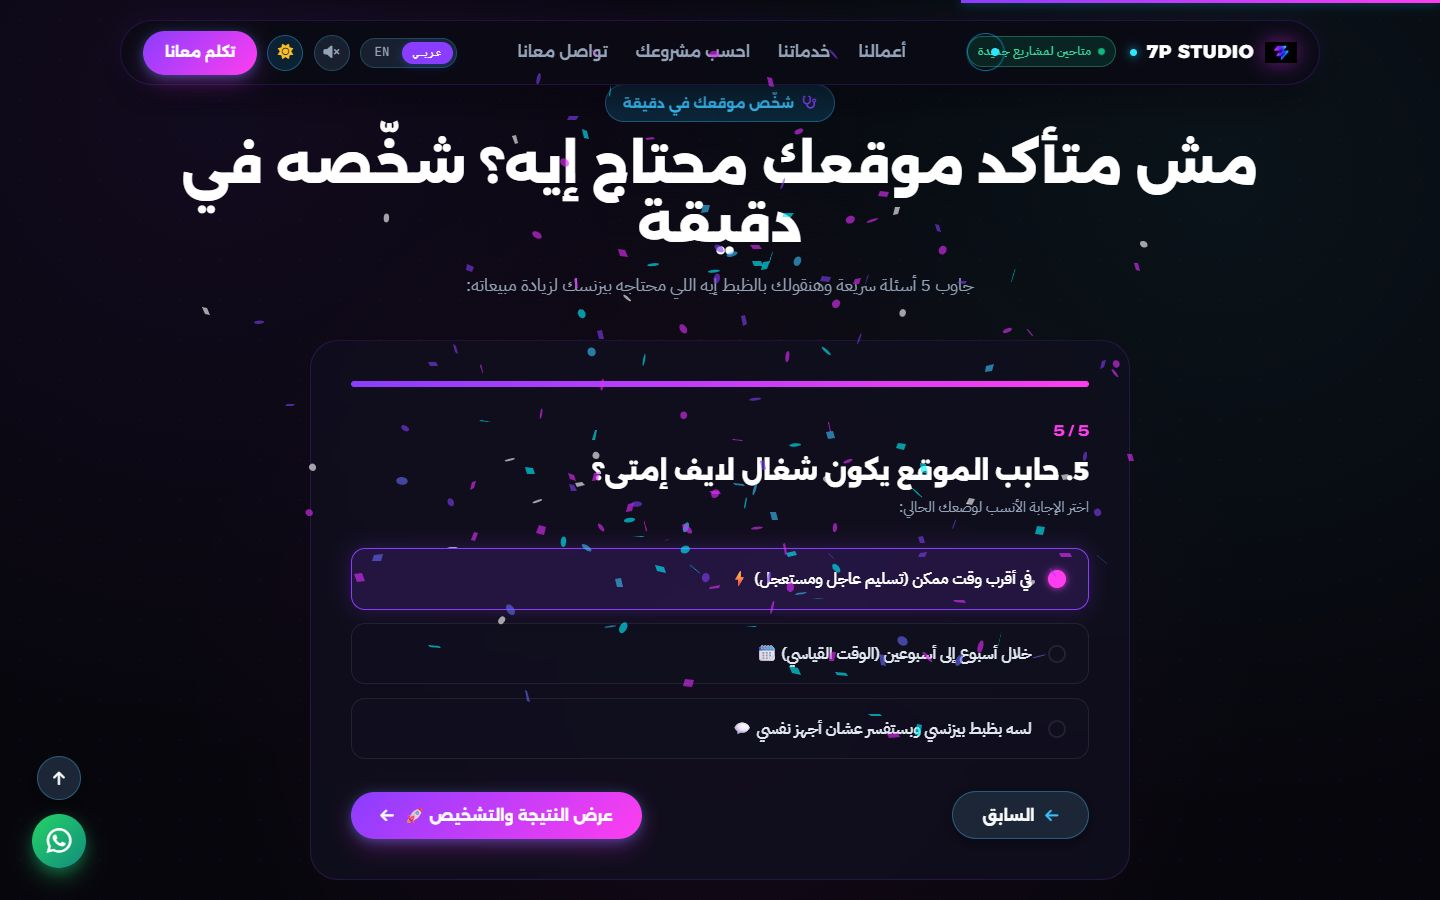
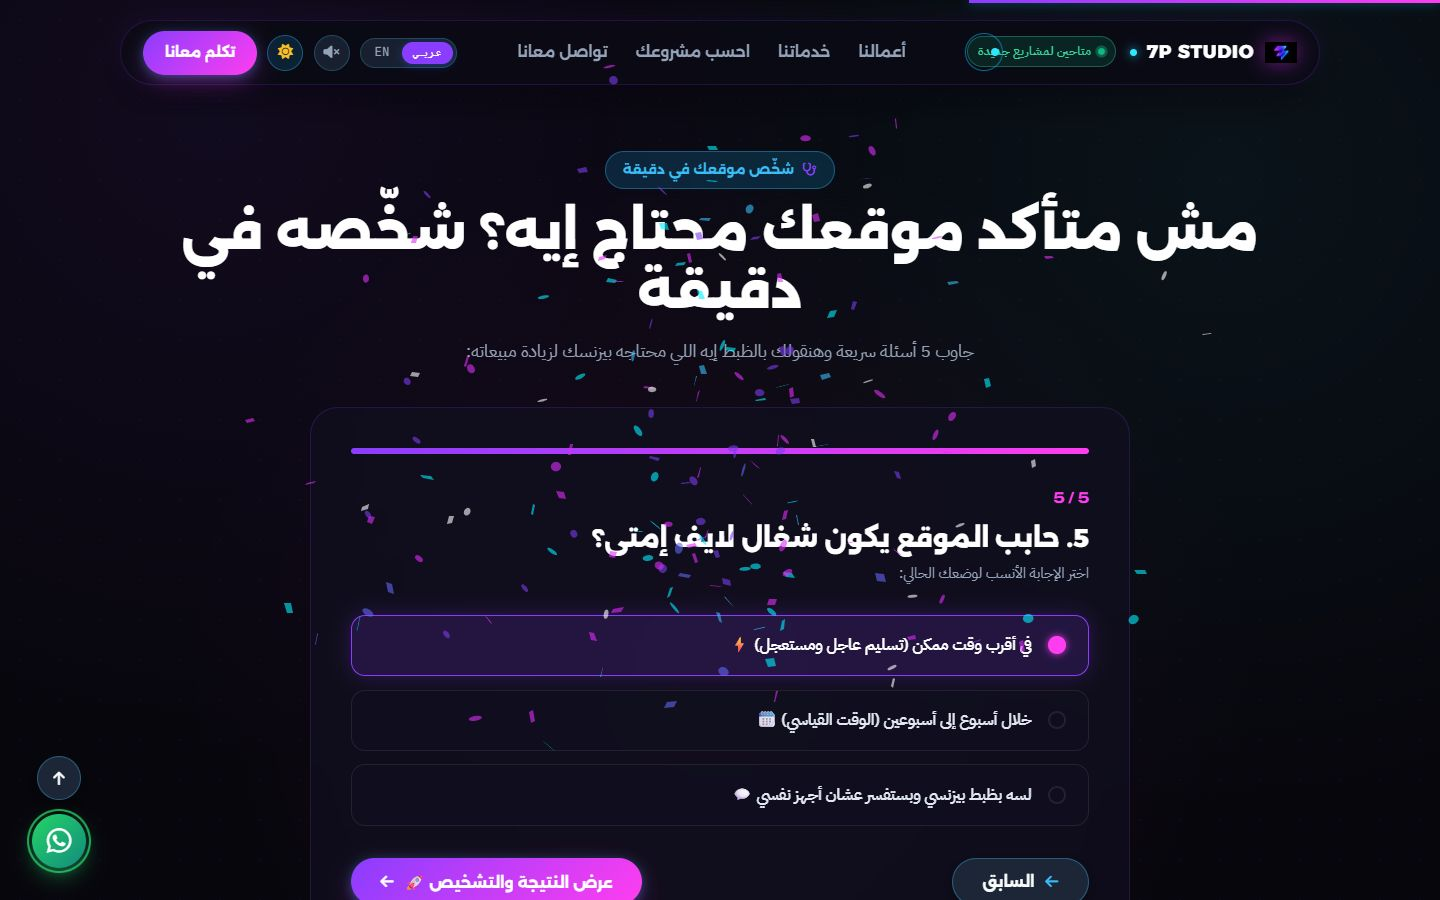
feat: add XO PS Lounge demo project with Eng. Yassin partnership badge and preview

diff --git a/index.html b/index.html
@@ -267,7 +267,7 @@
               <div class="hero-proof-card">
                 <div class="hero-proof-val">
                   <span class="live-dot"></span>
-                  <span data-i18n="heroProofProjectsVal">6 مشاريع</span>
+                  <span data-i18n="heroProofProjectsVal">7 مشاريع</span>
                 </div>
                 <span class="hero-proof-label" data-i18n="heroProofProjectsLabel">شغالة لايف دلوقتي</span>
               </div>
@@ -275,9 +275,9 @@
               <div class="hero-proof-card">
                 <div class="hero-proof-val" style="color: var(--accent-magenta);">
                   <i class="fa-solid fa-layer-group" style="font-size: 0.85rem;"></i>
-                  <span data-i18n="heroProofIndustriesVal">5 مجالات</span>
+                  <span data-i18n="heroProofIndustriesVal">6 مجالات</span>
                 </div>
-                <span class="hero-proof-label" data-i18n="heroProofIndustriesLabel">متاجر، مطاعم، أزياء، 3D</span>
+                <span class="hero-proof-label" data-i18n="heroProofIndustriesLabel">متاجر، مطاعم، مساحات، جيمينج، 3D</span>
               </div>
 
               <div class="hero-proof-card">
@@ -762,7 +762,7 @@
             <!-- Left: Real Live Sites Check -->
             <div class="trust-live-list">
               <h4 style="font-size: 1.1rem; font-weight: 700; margin-bottom: 0.5rem;" data-i18n="trustLiveHeader">
-                6 نماذج ومشاريع لايف (مشاريع حقيقية + نماذج تجريبية):
+                7 نماذج ومشاريع لايف (مشاريع حقيقية + نماذج تجريبية):
               </h4>
 
               <a href="https://aya-accessories.vercel.app/" target="_blank" rel="noopener noreferrer" class="trust-live-item">
@@ -826,6 +826,17 @@
                   <div>
                     <div class="trust-live-title">متجر رَوْنَـق للعطور الفاخرة 3D (Rawnaq 3D) <span class="tab-badge-demo" style="margin-inline-start: 6px;">تجريبي</span></div>
                     <div class="trust-live-url">demo-perfume-sigma.vercel.app · تجريبي</div>
+                  </div>
+                </div>
+                <i class="fa-solid fa-arrow-up-right-from-square" style="color: var(--text-dim); font-size: 0.85rem;"></i>
+              </a>
+
+              <a href="https://demoplaystaion-plum.vercel.app/" target="_blank" rel="noopener noreferrer" class="trust-live-item">
+                <div class="trust-live-info">
+                  <span class="trust-live-dot" style="background: #C69255; box-shadow: 0 0 10px #C69255;"></span>
+                  <div>
+                    <div class="trust-live-title">لاونج إكس أو بلايستيشن (XO PS Lounge) <span class="tab-badge-demo" style="margin-inline-start: 6px;">تجريبي</span> <span style="font-size: 0.75rem; color: #E0A96D; margin-inline-start: 6px; font-weight: 600;">🤝 بالشراكة مع بشمهندس ياسين</span></div>
+                    <div class="trust-live-url">demoplaystaion-plum.vercel.app · تجريبي (بالشراكة مع بشمهندس ياسين)</div>
                   </div>
                 </div>
                 <i class="fa-solid fa-arrow-up-right-from-square" style="color: var(--text-dim); font-size: 0.85rem;"></i>

diff --git a/src/motion/projectShowcase.js b/src/motion/projectShowcase.js
@@ -85,12 +85,18 @@ function renderShowcaseStructure(container) {
         <!-- Right / End: Project Info & Features Panel -->
         <div class="showcase-info-panel chamfer-card" id="showcase-info-panel">
           <div class="panel-header">
-            <div class="project-category-pill" id="project-category-pill" style="color: ${currentProject.accentColor}; border-color: ${currentProject.accentColor}33; background: ${currentProject.accentColor}12;">
-              <span class="category-icon"><i class="fa-solid fa-bolt"></i></span>
-              <span id="project-category-text">${currentProject.category[lang] || currentProject.category.ar}</span>
+            <div class="panel-header-tags" style="display: flex; align-items: center; gap: 8px; flex-wrap: wrap;">
+              <div class="project-category-pill" id="project-category-pill" style="color: ${currentProject.accentColor}; border-color: ${currentProject.accentColor}33; background: ${currentProject.accentColor}12;">
+                <span class="category-icon"><i class="fa-solid fa-bolt"></i></span>
+                <span id="project-category-text">${currentProject.category[lang] || currentProject.category.ar}</span>
+              </div>
+              <div class="project-partnership-pill" id="project-partnership-pill" style="${currentProject.partnership ? 'display: inline-flex;' : 'display: none;'} align-items: center; gap: 5px; padding: 4px 10px; border-radius: 999px; font-size: 0.75rem; font-weight: 700; color: #E0A96D; background: rgba(198, 146, 85, 0.15); border: 1px solid rgba(198, 146, 85, 0.35);">
+                <i class="fa-solid fa-handshake"></i>
+                <span id="project-partnership-text">${currentProject.partnership ? (currentProject.partnership[lang] || currentProject.partnership.ar) : ''}</span>
+              </div>
             </div>
             <span class="project-count-badge numeral">
-              <span id="project-curr-num">01</span> / 06
+              <span id="project-curr-num">${(activeIndex + 1).toString().padStart(2, '0')}</span> / ${(PROJECTS_DATA.length).toString().padStart(2, '0')}
             </span>
           </div>
 
@@ -285,8 +291,19 @@ function updateProjectUI(project, lang) {
   const liveBtn = document.getElementById('showcase-live-btn');
 
   if (urlText) urlText.textContent = project.url.replace('https://', '');
-  if (currNum) currNum.textContent = `0${activeIndex + 1}`;
+  if (currNum) currNum.textContent = (activeIndex + 1).toString().padStart(2, '0');
   if (catText) catText.textContent = project.category[lang] || project.category.ar;
+
+  const partPill = document.getElementById('project-partnership-pill');
+  const partText = document.getElementById('project-partnership-text');
+  if (partPill && partText) {
+    if (project.partnership) {
+      partPill.style.display = 'inline-flex';
+      partText.textContent = project.partnership[lang] || project.partnership.ar;
+    } else {
+      partPill.style.display = 'none';
+    }
+  }
   if (catPill) {
     catPill.style.color = project.accentColor;
     catPill.style.borderColor = `${project.accentColor}33`;

diff --git a/src/utils/i18n.js b/src/utils/i18n.js
@@ -60,10 +60,10 @@ export const translations = {
     hero3dHint: 'حرك الماوس لتلف المجسم 3D',
 
     // Real Proof Row (Computed from data, no fake numbers)
-    heroProofProjectsVal: '6 مشاريع',
+    heroProofProjectsVal: '7 مشاريع',
     heroProofProjectsLabel: 'شغالة لايف دلوقتي',
-    heroProofIndustriesVal: '5 مجالات',
-    heroProofIndustriesLabel: 'متاجر، مطاعم، أزياء، 3D',
+    heroProofIndustriesVal: '6 مجالات',
+    heroProofIndustriesLabel: 'متاجر، مطاعم، مساحات، جيمينج، 3D',
     heroProofDeliveryVal: '7 - 14 يوم',
     heroProofDeliveryLabel: 'تسليم قياسي متفق عليه',
     heroProofSupportVal: 'طوال الأسبوع',
@@ -106,7 +106,7 @@ export const translations = {
     trustBadge: 'ثقة وأمان',
     trustTitle: 'ليه تثق في <span class="highlight">7P Studio</span> لشغلك؟',
     trustSubtitle: 'شغل شفاف، التزام كامل بالمواعيد، وضمان جودة حقيقي بعد التسليم:',
-    trustLiveHeader: '6 مشاريع حقيقية شغالة لايف دلوقتي:',
+    trustLiveHeader: '7 نماذج ومشاريع لايف (مشاريع حقيقية + نماذج تجريبية):',
     trustPromise1Title: 'رد سريع وتواصل مباشر',
     trustPromise1Desc: 'تواصل مباشر مع عمر ومصطفى، بنسمع تفاصيل بيزنسك وبنرد علطول بدون تأخير.',
     trustPromise2Title: 'تسليم في الميعاد المحدد',
@@ -310,10 +310,10 @@ export const translations = {
     hero3dHint: 'Drag or hover to rotate 3D',
 
     // Real Proof Row
-    heroProofProjectsVal: '6 Projects',
+    heroProofProjectsVal: '7 Projects',
     heroProofProjectsLabel: 'Live & Operational',
-    heroProofIndustriesVal: '5 Domains',
-    heroProofIndustriesLabel: 'Stores, Food, Fashion, 3D',
+    heroProofIndustriesVal: '6 Domains',
+    heroProofIndustriesLabel: 'Stores, Food, Gaming, 3D',
     heroProofDeliveryVal: '7 - 14 Days',
     heroProofDeliveryLabel: 'Standard Turnaround',
     heroProofSupportVal: '7 Days a Week',
@@ -356,7 +356,7 @@ export const translations = {
     trustBadge: 'Trust & Guarantees',
     trustTitle: 'Why Trust <span class="highlight">7P Studio</span>?',
     trustSubtitle: 'Transparent workflow, strict adherence to deadlines, and post-launch quality guarantee:',
-    trustLiveHeader: '6 verified projects live right now:',
+    trustLiveHeader: '7 live models & projects (client work + interactive demos):',
     trustPromise1Title: 'Swift direct communication',
     trustPromise1Desc: 'Direct access to Omar and Mostafa with zero middleman friction.',
     trustPromise2Title: 'Guaranteed on-time delivery',

diff --git a/src/data/projects.js b/src/data/projects.js
@@ -178,16 +178,49 @@ export const PROJECTS_DATA = [
     },
     isLive: true,
     isDemo: true
+  },
+  {
+    id: 'xops',
+    title: {
+      ar: 'لاونج إكس أو بلايستيشن (تجريبي)',
+      en: 'XO PS Gaming Lounge (Demo)'
+    },
+    client: 'XO PS Lounge (تجريبي)',
+    partnership: {
+      ar: 'بالشراكة مع بشمهندس ياسين',
+      en: 'In partnership with Eng. Yassin'
+    },
+    category: {
+      ar: 'لاونج بلايستيشن وحجوزات · تجريبي',
+      en: 'Gaming Lounge & Booking · Demo'
+    },
+    short: {
+      ar: 'نموذج تجريبي متكامل للاونج ألعاب وبلايستيشن (بالشراكة مع بشمهندس ياسين)، بيشمل حجز فوري لـ 15 غرفة معزولة، استعراض أجهزة PS5 ومكتبة الألعاب، وقسم ريست متكامل للمشروبات والسناكس.',
+      en: 'Interactive demo for a gaming lounge (in partnership with Eng. Yassin), featuring online booking for 15 soundproof rooms, PS5 specs, games library, and cafe menu.'
+    },
+    tags: {
+      ar: ['نموذج تجريبي جاهز', 'بالشراكة مع بشمهندس ياسين', 'حجز 15 غرفة أونلاين', 'أجهزة PS5 ومكتبة ألعاب'],
+      en: ['Interactive Demo', 'In partnership with Eng. Yassin', '15 Rooms Booking', 'PS5 & Games Library']
+    },
+    url: 'https://demoplaystaion-plum.vercel.app/',
+    previewImg: '/projects/xops-preview.jpg',
+    accentColor: '#C69255',
+    status: {
+      ar: 'نموذج تجريبي جاهز للعرض (بالشراكة مع بشمهندس ياسين)',
+      en: 'Interactive Demo (In partnership with Eng. Yassin)'
+    },
+    isLive: true,
+    isDemo: true
   }
 ];
 
 export const REAL_STATS = {
-  totalProjects: PROJECTS_DATA.length, // 6
+  totalProjects: PROJECTS_DATA.length, // 7
   liveClientProjects: PROJECTS_DATA.filter(p => !p.isDemo).length, // 3
-  demoProjects: PROJECTS_DATA.filter(p => p.isDemo).length, // 3
+  demoProjects: PROJECTS_DATA.filter(p => p.isDemo).length, // 4
   industriesCovered: {
-    ar: 'متاجر، مطاعم، مساحات، أزياء، وتجارب 3D',
-    en: 'E-commerce, Food, Hubs, Fashion & 3D'
+    ar: 'متاجر، مطاعم، مساحات، جيمينج، أزياء، و3D',
+    en: 'E-commerce, Food, Hubs, Gaming, Fashion & 3D'
   },
   deliveryWindow: {
     ar: '7 - 14 يوم عمل',
